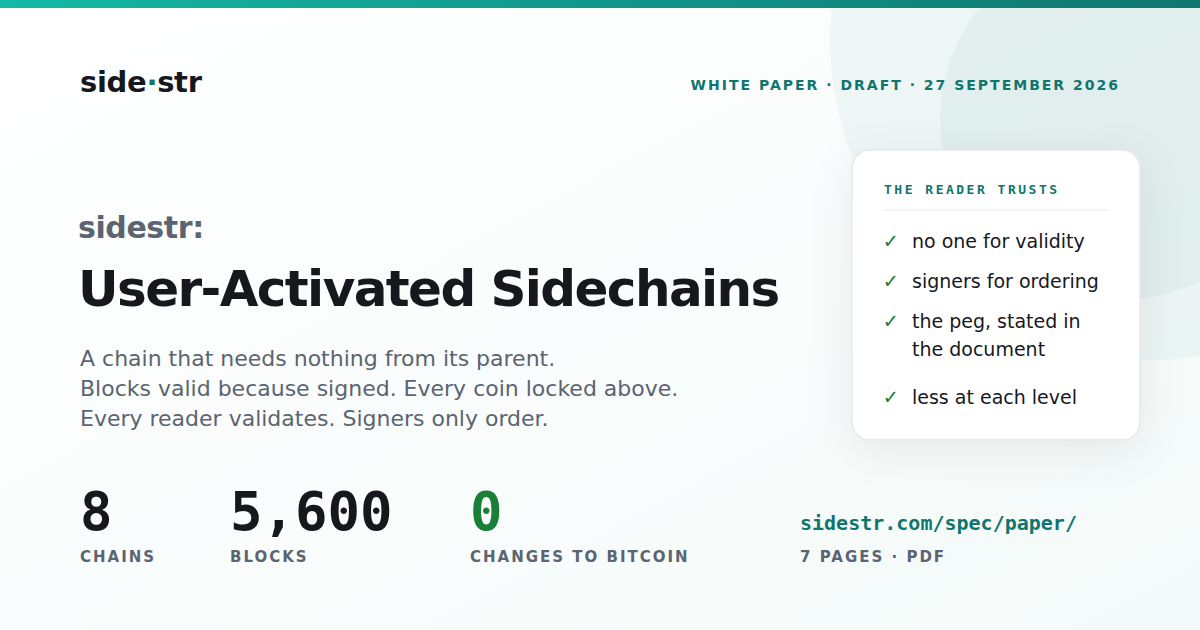
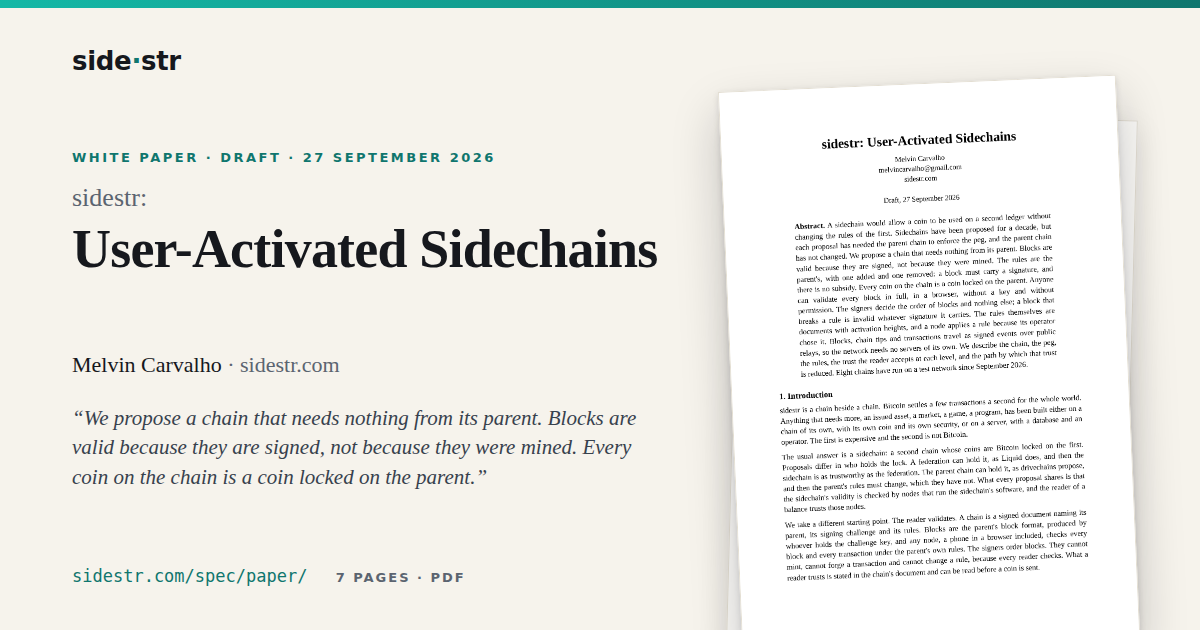
paper: the card is the paper itself — the rendered first page, tilted with a shadow, beside the title, author and the opening claim on an off-white ground; built from og.html with the page thumbnail from pdftoppm

diff --git a/paper/og.html b/paper/og.html
@@ -1,0 +1,28 @@
+<!doctype html><html><head><meta charset="utf-8"><style>
+html,body{margin:0;width:1200px;height:630px;overflow:hidden}
+body{background:#f6f3ec;font-family:"Times New Roman",Times,"DejaVu Serif",serif;color:#16181d;position:relative}
+.bar{position:absolute;top:0;left:0;right:0;height:8px;background:linear-gradient(90deg,#14b8a6,#0f766e)}
+.brand{position:absolute;left:72px;top:46px;font-family:"DejaVu Sans",Arial,sans-serif;font-weight:700;font-size:26px;letter-spacing:-.3px}
+.brand b{color:#0f766e;font-weight:700}
+.kicker{position:absolute;left:72px;top:150px;font-family:"DejaVu Sans",Arial,sans-serif;font-size:13px;font-weight:700;letter-spacing:2.5px;color:#0f766e}
+.title{position:absolute;left:72px;top:184px;width:640px;font-size:54px;line-height:1.08;font-weight:700;letter-spacing:-.8px}
+.title small{display:block;font-size:26px;font-weight:400;color:#5b6470;letter-spacing:0;margin-bottom:8px}
+.author{position:absolute;left:72px;top:352px;font-size:22px;color:#16181d}
+.author span{color:#5b6470}
+.abs{position:absolute;left:72px;top:404px;width:600px;font-size:21px;line-height:1.4;font-style:italic;color:#37414d}
+.foot{position:absolute;left:72px;bottom:44px;font-family:"DejaVu Sans Mono",monospace;font-size:17px;color:#0f766e}
+.foot span{color:#5b6470;font-family:"DejaVu Sans",Arial,sans-serif;font-size:13px;letter-spacing:2px;font-weight:700;margin-left:18px}
+.page{position:absolute;right:84px;top:92px;width:396px;transform:rotate(-2.5deg);transform-origin:top left;box-shadow:0 22px 48px rgba(16,18,29,.22),0 2px 6px rgba(16,18,29,.12);border:1px solid #e3ded2;background:#fff}
+.page img{display:block;width:100%}
+.page2{position:absolute;right:62px;top:110px;width:396px;height:560px;transform:rotate(1.5deg);transform-origin:top left;background:#fbfaf7;border:1px solid #e3ded2;box-shadow:0 10px 30px rgba(16,18,29,.1)}
+</style></head><body>
+<div class="bar"></div>
+<div class="brand">side<b>·</b>str</div>
+<div class="kicker">WHITE PAPER · DRAFT · 27 SEPTEMBER 2026</div>
+<div class="title"><small>sidestr:</small>User-Activated Sidechains</div>
+<div class="author">Melvin Carvalho <span>· sidestr.com</span></div>
+<div class="abs">“We propose a chain that needs nothing from its parent. Blocks are valid because they are signed, not because they were mined. Every coin on the chain is a coin locked on the parent.”</div>
+<div class="foot">sidestr.com/spec/paper/ <span>7 PAGES · PDF</span></div>
+<div class="page2"></div>
+<div class="page"><img src="page1.png" alt=""></div>
+</body></html>

diff --git a/paper/index.html b/paper/index.html
@@ -7,7 +7,7 @@
 <meta property="og:description" content="We propose a chain that needs nothing from its parent. Blocks are valid because they are signed, not because they were mined.">
 <meta property="og:type" content="article">
 <meta property="og:url" content="https://sidestr.com/spec/paper/">
-<meta property="og:image" content="https://sidestr.com/spec/paper/og.png?v=1">
+<meta property="og:image" content="https://sidestr.com/spec/paper/og.png?v=2">
 <meta property="og:image:width" content="1200">
 <meta property="og:image:height" content="630">
 <meta property="og:image:alt" content="sidestr: User-Activated Sidechains: white paper, draft 27 September 2026">
@@ -15,7 +15,7 @@
 <meta name="twitter:card" content="summary_large_image">
 <meta name="twitter:title" content="sidestr: User-Activated Sidechains">
 <meta name="twitter:description" content="We propose a chain that needs nothing from its parent. Blocks are valid because they are signed, not because they were mined.">
-<meta name="twitter:image" content="https://sidestr.com/spec/paper/og.png?v=1">
+<meta name="twitter:image" content="https://sidestr.com/spec/paper/og.png?v=2">
 <meta name="citation_title" content="sidestr: User-Activated Sidechains">
 <meta name="citation_author" content="Melvin Carvalho">
 <meta name="citation_publication_date" content="2026/09/27">

diff --git a/paper/md2html.py b/paper/md2html.py
@@ -73,7 +73,7 @@ meta = f'''<meta name="viewport" content="width=device-width, initial-scale=1">
 <meta property="og:description" content="{desc}">
 <meta property="og:type" content="article">
 <meta property="og:url" content="{base}">
-<meta property="og:image" content="{base}og.png?v=1">
+<meta property="og:image" content="{base}og.png?v=2">
 <meta property="og:image:width" content="1200">
 <meta property="og:image:height" content="630">
 <meta property="og:image:alt" content="{html.escape(title)}: white paper, draft {html.escape(date)}">
@@ -81,7 +81,7 @@ meta = f'''<meta name="viewport" content="width=device-width, initial-scale=1">
 <meta name="twitter:card" content="summary_large_image">
 <meta name="twitter:title" content="{html.escape(title)}">
 <meta name="twitter:description" content="{desc}">
-<meta name="twitter:image" content="{base}og.png?v=1">
+<meta name="twitter:image" content="{base}og.png?v=2">
 <meta name="citation_title" content="{html.escape(title)}">
 <meta name="citation_author" content="{html.escape(author)}">
 <meta name="citation_publication_date" content="{iso}">
